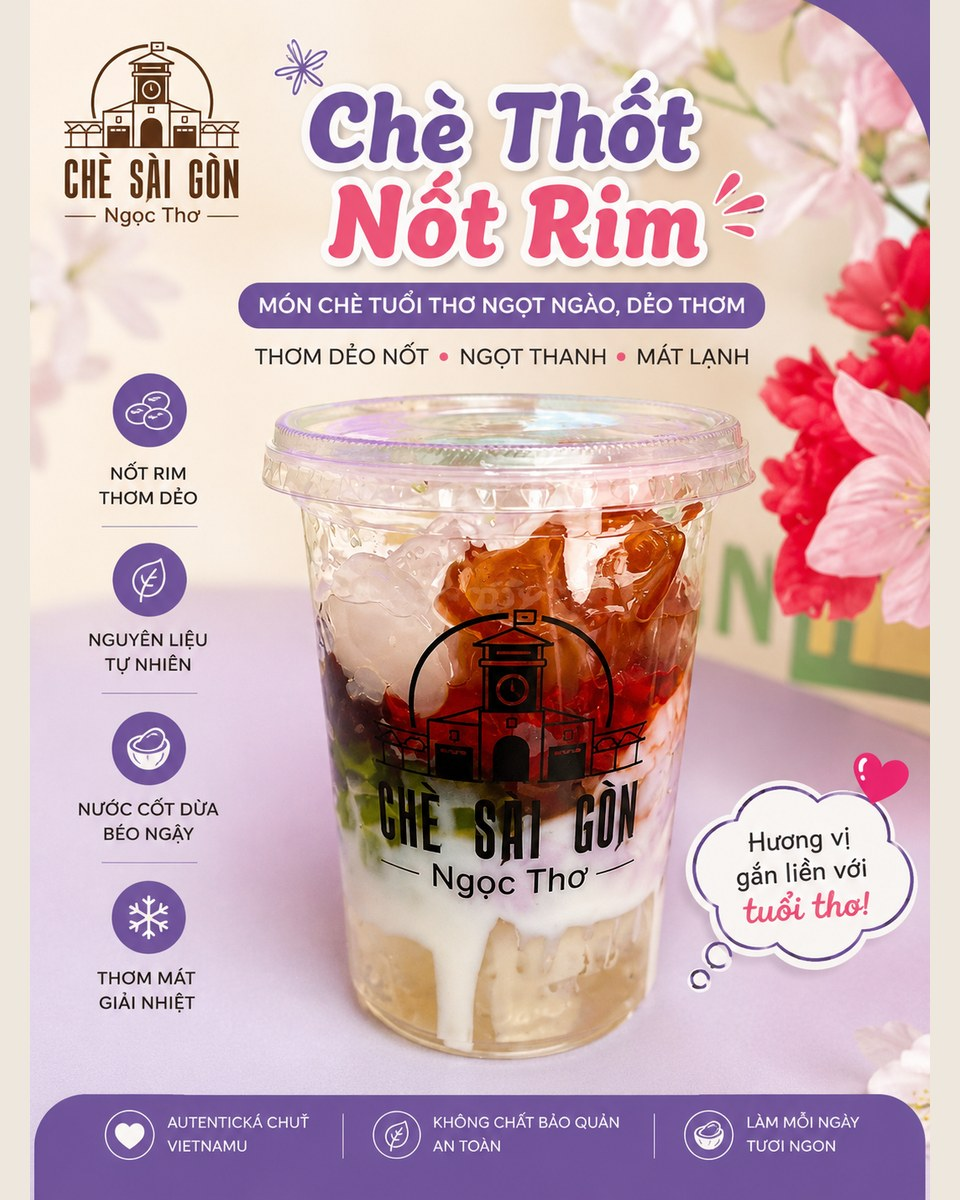
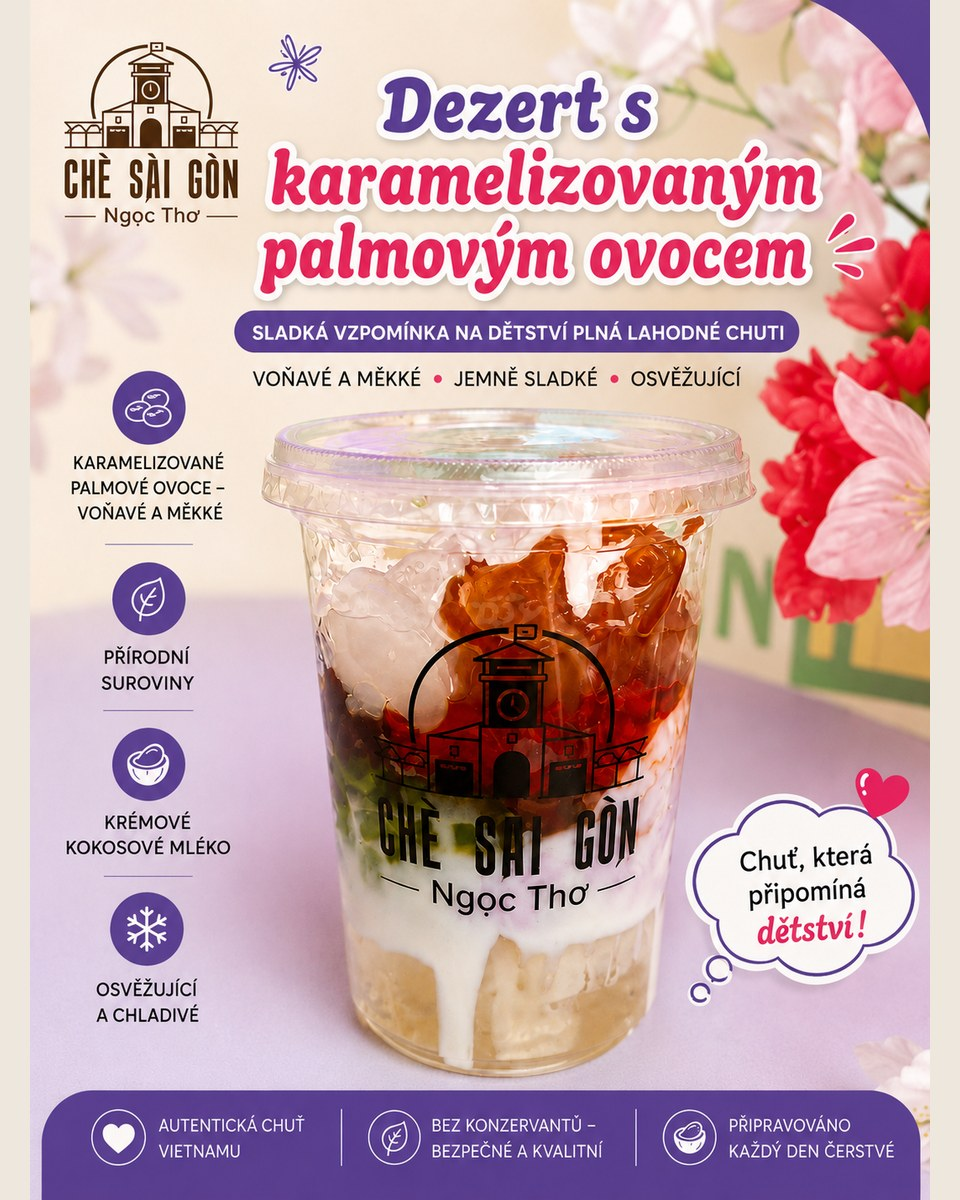
update

diff --git a/index.html b/index.html
@@ -2017,11 +2017,11 @@ h1{
           </div>
         </article>
         <article class="menu-card">
-          <img src="optimized/menu-16-sirup-z-palmoveho-cukru.jpg" alt="Sirup z palmového cukru" width="960" height="1200" loading="lazy" decoding="async">
+          <img src="optimized/menu-16-sirup-z-palmoveho-cukru.jpg" alt="Dezert s karamelizovaným palmovým ovocem" width="960" height="1200" loading="lazy" decoding="async">
           <div class="menu-card-body">
             <span class="menu-number">16</span>
-            <h3>Sirup z palmového cukru</h3>
-            <p>Sladký doplněk pro výraznější chuť.</p>
+            <h3>Dezert s karamelizovaným palmovým ovocem</h3>
+            <p>Karamelizované palmové ovoce, kokosové mléko a jemná sladkost.</p>
           </div>
         </article>
       </div>
